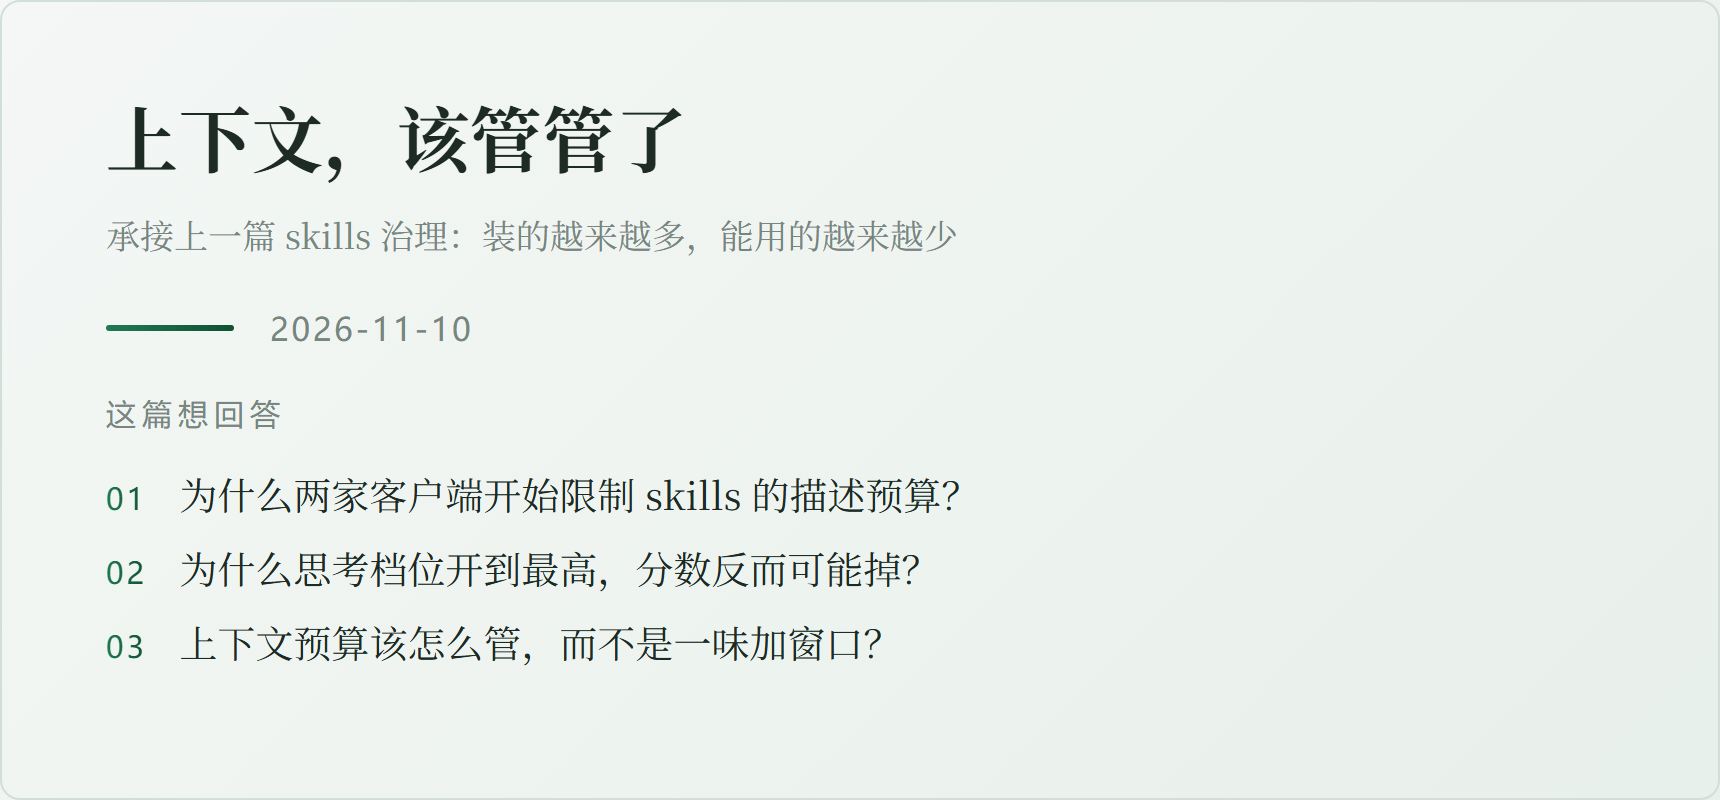
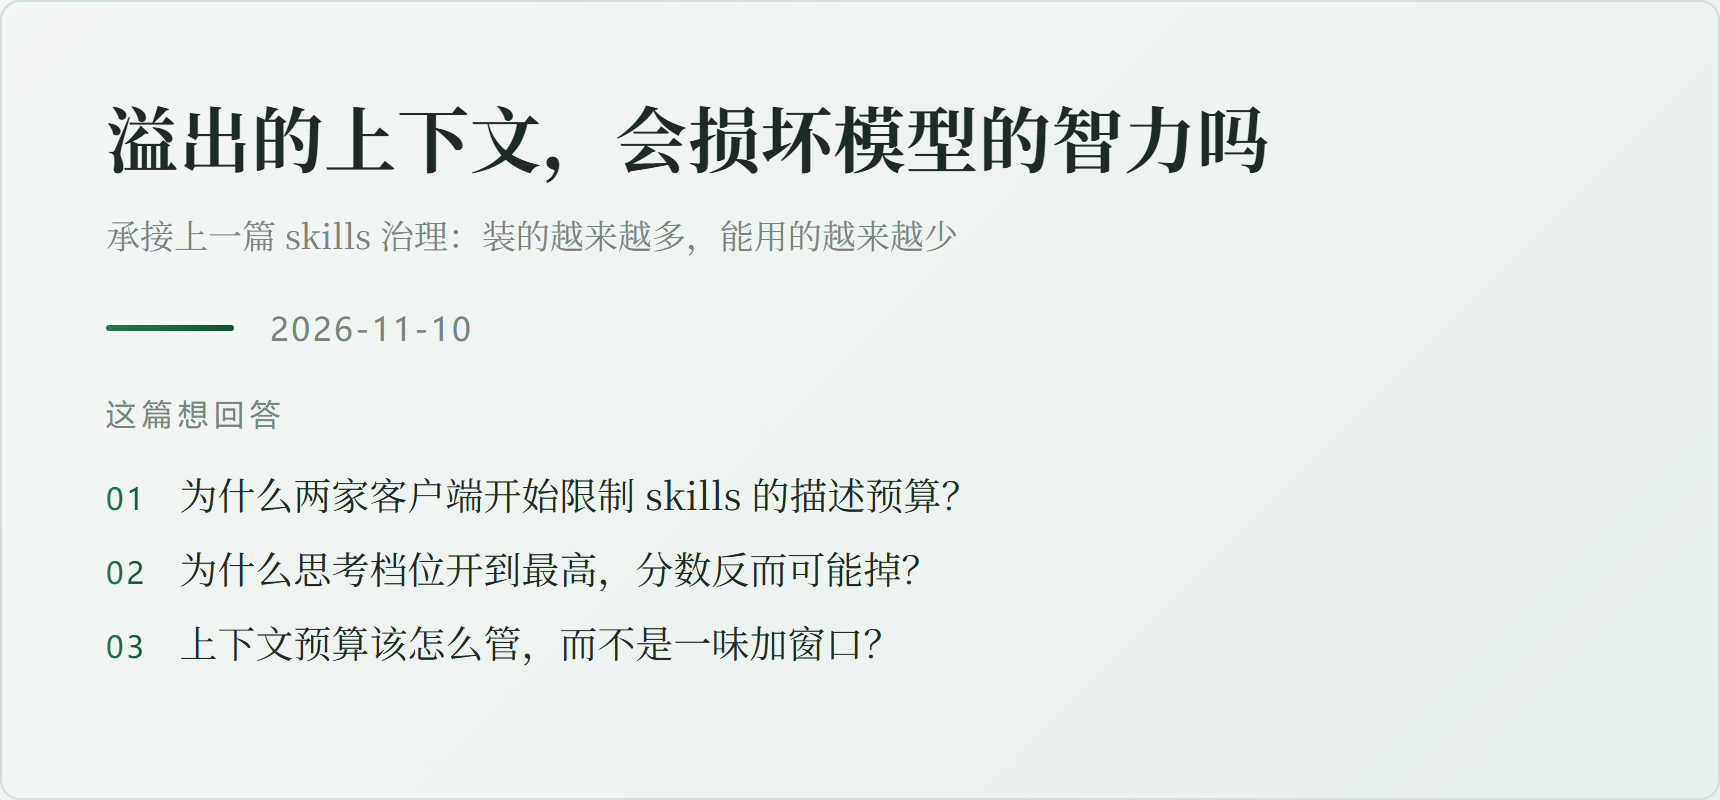
card: 按文章配色（warm/sage），恢复第一篇暖纸原色；第二篇标题改为疑问句

Changed region(s): [[0.0616, 0.125, 0.7395, 0.2188]]

diff --git a/scripts/render_cards.py b/scripts/render_cards.py
@@ -21,11 +21,19 @@ SERIES = {
     "数据与风控": ("#2F5D8A", "#6AA6E0"),
     "和 AI 协作的方式": ("#B5651D", "#E09A4F"),
 }
-THEME = {
-    "light": dict(bg="linear-gradient(135deg,#F4F7F5 0%,#E8F0EB 100%)", border="#D3DED8", text="#1E2B25", muted="#75877E"),
-    "dark":  dict(bg="linear-gradient(135deg,#141A17 0%,#1B2721 100%)", border="#2C3B33", text="#E6EFE9", muted="#8FA89B"),
+# 每篇文章可自选配色：meta 里 palette: warm | sage（默认 warm）
+PALETTES = {
+    "warm": {
+        "light": dict(bg="#F7F6F3", border="#E2E0DA", text="#24292F", muted="#8A8578"),
+        "dark":  dict(bg="#1C1C1A", border="#33322E", text="#E8E6E1", muted="#96917F"),
+        "acc": {"light": "#1F7A52", "dark": "#4CAF82"},
+    },
+    "sage": {
+        "light": dict(bg="linear-gradient(135deg,#F4F7F5 0%,#E8F0EB 100%)", border="#D3DED8", text="#1E2B25", muted="#75877E"),
+        "dark":  dict(bg="linear-gradient(135deg,#141A17 0%,#1B2721 100%)", border="#2C3B33", text="#E6EFE9", muted="#8FA89B"),
+        "acc": {"light": "linear-gradient(90deg,#1F7A52,#0F5132)", "dark": "linear-gradient(90deg,#4CAF82,#7FD8A6)"},
+    },
 }
-ACCENT = {"light": "linear-gradient(90deg,#1F7A52,#0F5132)", "dark": "linear-gradient(90deg,#4CAF82,#7FD8A6)"}
 W, H = 860, 400
 
 def parse(path):
@@ -50,8 +58,9 @@ def parse(path):
 
 
 def card_html(meta, mode):
-    t = THEME[mode]
-    acc = ACCENT[mode]
+    pal = PALETTES.get(meta.get("palette", "warm"), PALETTES["warm"])
+    t = pal[mode]
+    acc = pal["acc"][mode]
     e = lambda s: html.escape(str(s))
     qs = "".join(
         f'<li><span class="n">{"01 02 03 04".split()[i]}</span>{e(q)}</li>'

diff --git a/README.md b/README.md
@@ -15,7 +15,7 @@
 <!-- 新增文章后在此追加一行：- YYYY-MM-DD [标题](./posts/文件名.md) -->
 
 - 2026-11-09 [Skills 花样众多，损耗的是注意力，边际效益会下降](./posts/2026-11-09-academic-tikz-merge.md) · AI 产品 · 草稿
-- 2026-11-10 [上下文，该管管了](./posts/2026-11-10-context-budget.md) · AI 产品 · 草稿
+- 2026-11-10 [溢出的上下文，会损坏模型的智力吗](./posts/2026-11-10-context-budget.md) · AI 产品 · 草稿
 
 ## 写作约定
 
